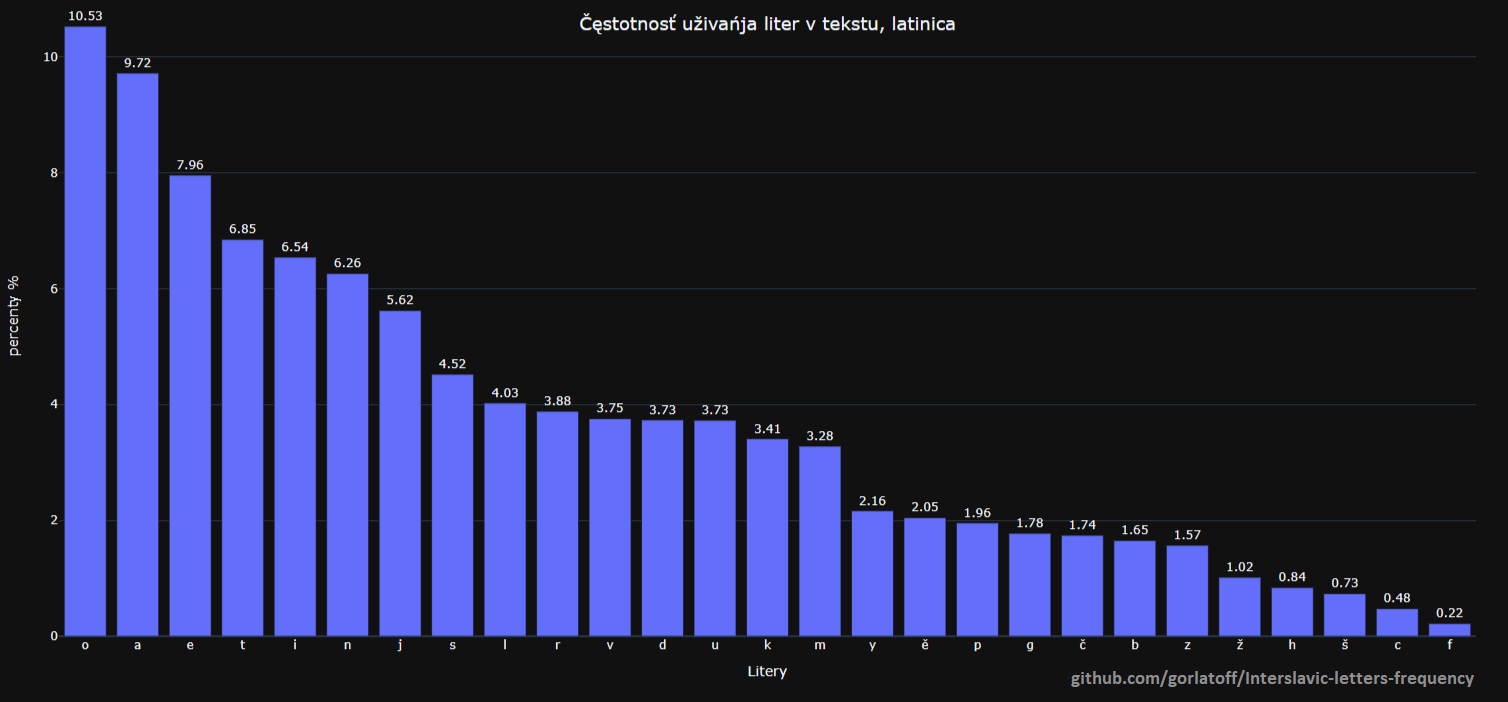
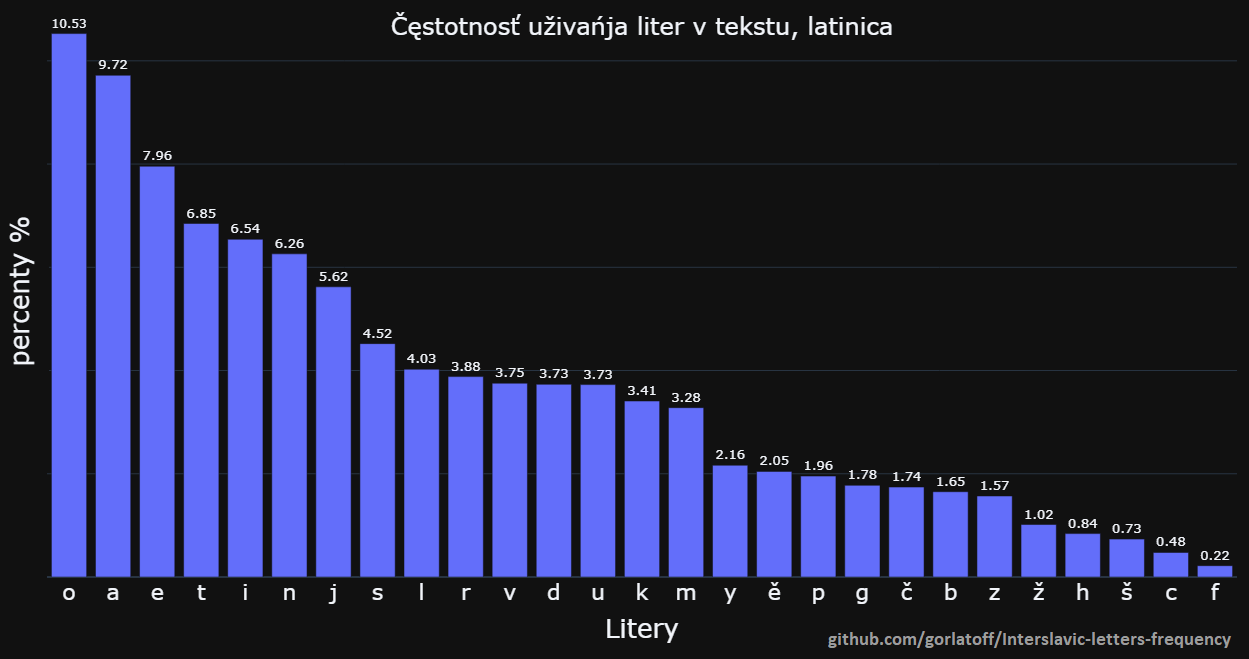
25

diff --git a/letters frequency (plotly).py b/letters frequency (plotly).py
@@ -22,12 +22,15 @@ def count_letters_frequency(text, alphabet, title):
         y=counts,
         text=[f"{round(count, 2)}" for count in counts], #anotacije
         textposition='outside',
+        textfont=dict( size=13),           
     ))
 
     fig.update_layout(
-        title=dict(text=title, font=dict(size=18), x=0.5, y=0.85, xref="paper"),
+        title=dict(text=title, font=dict(size=24), x=0.5, y=0.85, xref="paper"),
         yaxis_title='percenty %',
         xaxis_title='Litery',
+        font=dict(size=22),
+        yaxis={'visible': True, 'showticklabels': False}
     )
    
     fig.show()

diff --git a/README.md b/README.md
@@ -71,12 +71,14 @@ fig = go.Figure(go.Bar(
     y = counts,
     text = [f"{round(count, 2)}" for count in counts], #anotacije
     textposition = 'outside',
+    textfont = dict( size = 13),           
 ))
-
 fig.update_layout(
-    title = dict(text = title, font = dict(size = 18), x = 0.5, y = 0.85, xref="paper"),
+    title = dict(text = title, font = dict(size = 24), x = 0.5, y = 0.85, xref = "paper"),
     yaxis_title = 'percenty %',
     xaxis_title = 'Litery',
+    font = dict(size = 22),
+    yaxis = {'visible': True, 'showticklabels': False}
 )
     
 fig.show()
